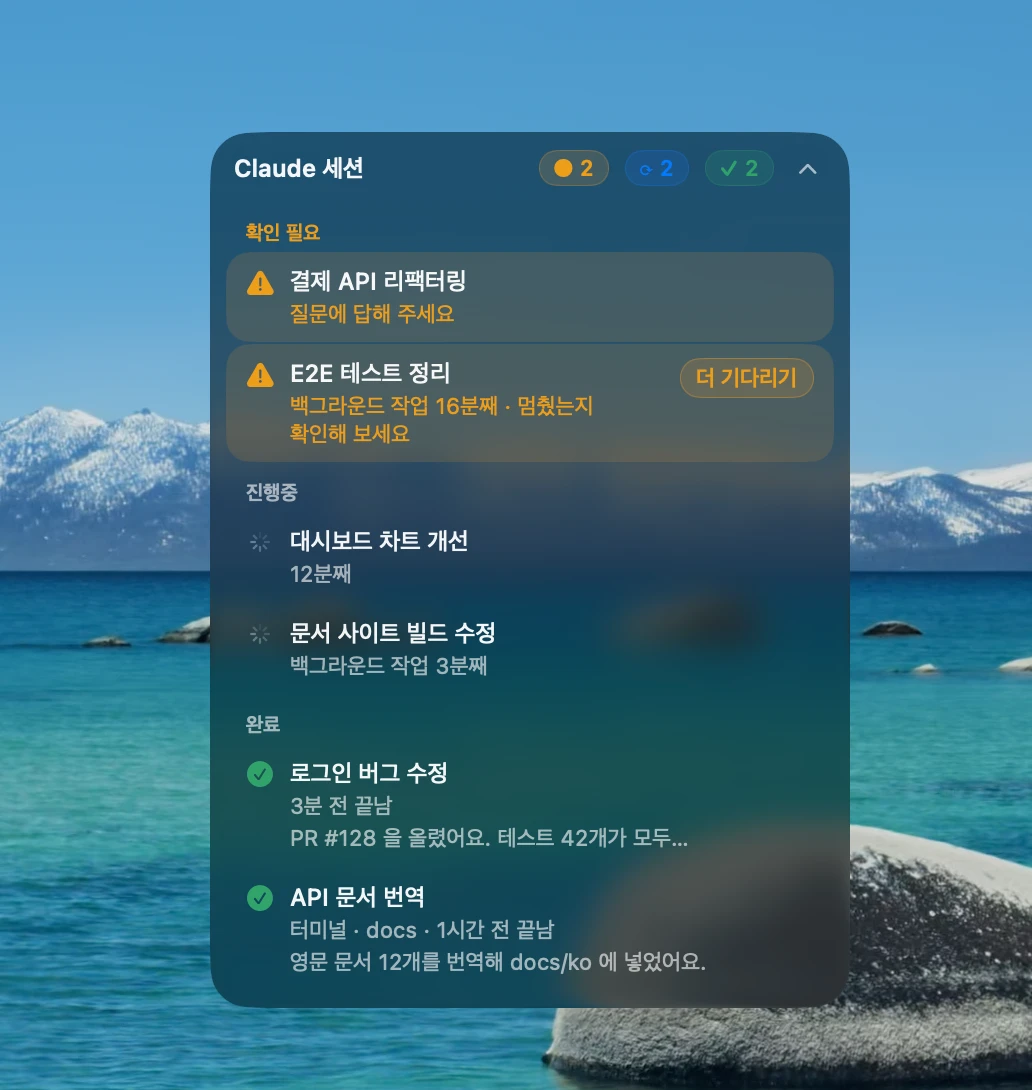
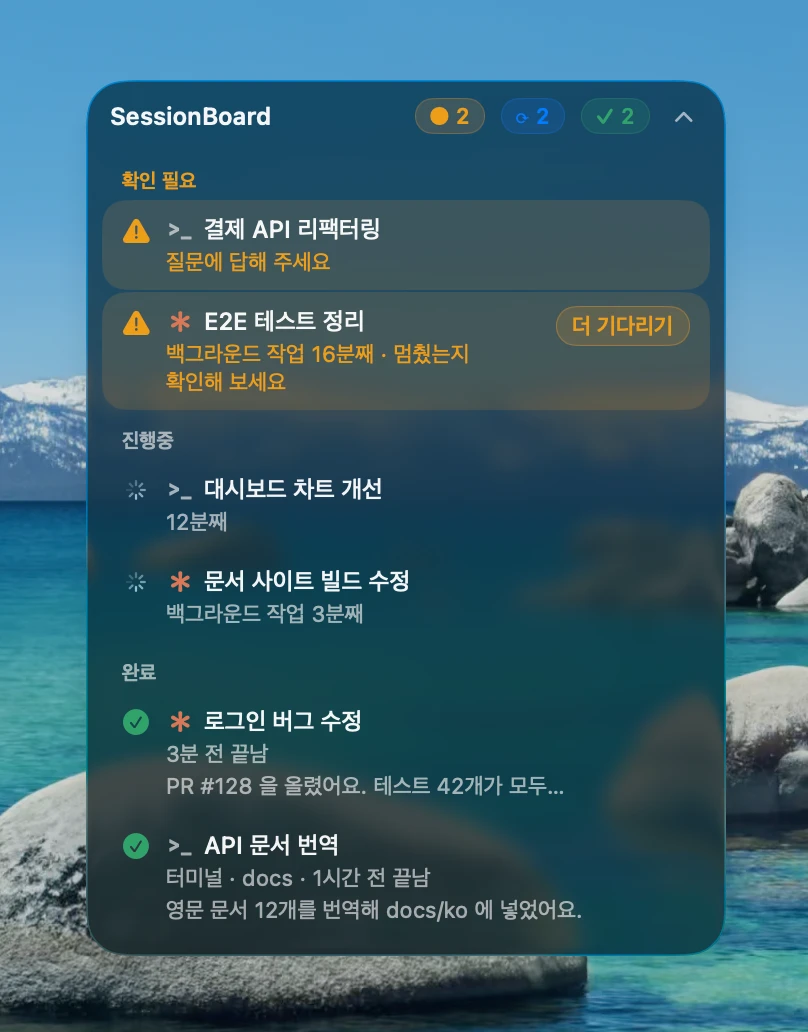
README: 새 스크린샷(SessionBoard 제목·도구 기호), 도구 구분·터미널 세션 클릭 설명 갱신

diff --git a/README.en.md b/README.en.md
@@ -9,7 +9,7 @@ SessionBoard shows the state of every session at a glance, in a small floating w
 - **Needs you**: it's your turn — a permission prompt, a multiple-choice question, plan approval, or a background task that has been running too long.
 - **Done**: finished. Shows the first line of the last reply and **stays until you confirm it**.
 
-It covers Claude desktop app (Code tab) sessions, `claude` sessions started from a terminal, and Codex (app and CLI) sessions. Codex sessions are labeled **Codex**.
+It covers Claude desktop app (Code tab) sessions, `claude` sessions started from a terminal, and Codex (app and CLI) sessions. A symbol before each title tells the tools apart: **Claude is an orange ✳, Codex is `>_`**.
 
 <p align="center"><img src="docs/images/overview.webp" alt="Session states in the floating window and the menu bar" width="820"></p>
 
@@ -58,7 +58,7 @@ Most of the time the window stays collapsed and only shows counts.
 |---|---|
 | Hover over the collapsed window | A compact one-line-per-session list unfolds |
 | Click the collapsed window | Opens the full window with summaries and buttons |
-| Click a session | Opens it in the Claude or Codex app (Claude sessions started in a terminal bring that terminal app forward) |
+| Click a session | Opens it in the Claude or Codex app (sessions started in a terminal bring that terminal app forward) |
 | **확인** (Confirm) on a done session | Removes it from the list (appears on hover) |
 | **더 기다리기** (Wait longer) | Postpones the long-running background task alert by the configured time |
 | Right-click the top of the window | Confirm all done, refresh, settings, quit |
